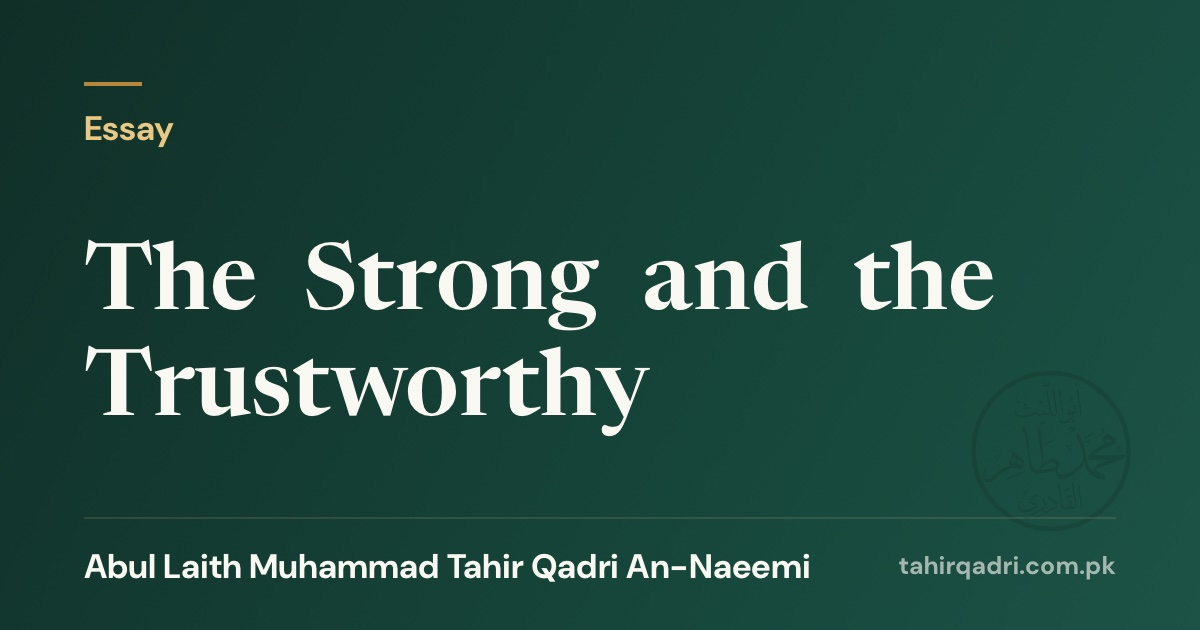
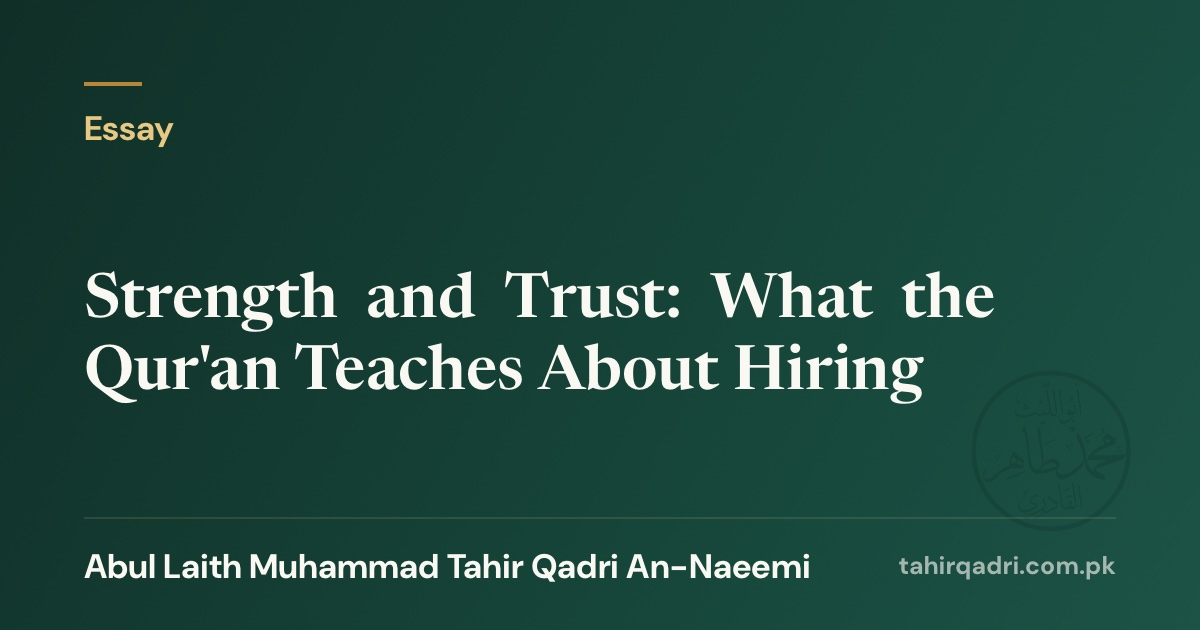
Update from the editor
content.js, index.html, posts/the-strong-and-the-trustworthy.html, files/cards/the-strong-and-the-trustworthy.jpg

Published by tahir.razavi@gmail.com

Changed region(s): [[0.0617, 0.3619, 0.8325, 0.6937]]

diff --git a/posts/the-strong-and-the-trustworthy.html b/posts/the-strong-and-the-trustworthy.html
@@ -3,7 +3,7 @@
   <head>
     <meta charset="UTF-8" />
     <meta name="viewport" content="width=device-width, initial-scale=1.0" />
-    <title>The Strong and the Trustworthy — Abul Laith Muhammad Tahir Qadri An-Naeemi</title>
+    <title>Strength and Trust: What the Qur'an Teaches About Hiring — Abul Laith Muhammad Tahir Qadri An-Naeemi</title>
     <meta name="description" content="Eight principles of employment drawn from the agreement made in Madyan between Sayyidunā Mūsā and Sayyidunā Shuʿayb (عليهما السلام) — judging character before hiring, deciding on evidence, and the employer's own duty of clear terms and gentle treatment." />
     <meta name="author" content="Abul Laith Muhammad Tahir Qadri An-Naeemi" />
     <link rel="canonical" href="https://tahirqadri.com.pk/posts/the-strong-and-the-trustworthy.html" />
@@ -12,7 +12,7 @@
     <link rel="alternate" hreflang="x-default" href="https://tahirqadri.com.pk/posts/the-strong-and-the-trustworthy.html" />
 
     <meta property="og:type" content="article" />
-    <meta property="og:title" content="The Strong and the Trustworthy" />
+    <meta property="og:title" content="Strength and Trust: What the Qur'an Teaches About Hiring" />
     <meta property="og:description" content="Eight principles of employment drawn from the agreement made in Madyan between Sayyidunā Mūsā and Sayyidunā Shuʿayb (عليهما السلام) — judging character before hiring, deciding on evidence, and the employer's own duty of clear terms and gentle treatment." />
     <meta property="og:url" content="https://tahirqadri.com.pk/posts/the-strong-and-the-trustworthy.html" />
     <meta property="og:image" content="https://tahirqadri.com.pk/files/cards/the-strong-and-the-trustworthy.jpg" />
@@ -25,7 +25,7 @@
     <link rel="preconnect" href="https://fonts.gstatic.com" crossorigin />
     <link href="https://fonts.googleapis.com/css2?family=Amiri:wght@400;700&family=DM+Sans:opsz,wght@9..40,400;9..40,500;9..40,700&family=Newsreader:ital,opsz,wght@0,6..72,400;0,6..72,600;1,6..72,400&family=Noto+Nastaliq+Urdu:wght@400;500;600&display=swap" rel="stylesheet" />
     <link rel="stylesheet" href="../styles.css" />
-    <script type="application/ld+json">{"@context":"https://schema.org","@type":"BlogPosting","headline":"The Strong and the Trustworthy","inLanguage":"en","description":"Eight principles of employment drawn from the agreement made in Madyan between Sayyidunā Mūsā and Sayyidunā Shuʿayb (عليهما السلام) — judging character before hiring, deciding on evidence, and the employer's own duty of clear terms and gentle treatment.","datePublished":"2026-09-21","keywords":"Tafsir, Qur'an, Al-Qasas, Hiring","url":"https://tahirqadri.com.pk/posts/the-strong-and-the-trustworthy.html","author":{"@type":"Person","name":"Abul Laith Muhammad Tahir Qadri An-Naeemi","alternateName":"أبو اللّیث محمد طاہر القادری النّعیمی","url":"https://tahirqadri.com.pk/"},"isPartOf":{"@type":"Collection","name":"Posts, Notes & Reflections","url":"https://tahirqadri.com.pk/"}}</script>
+    <script type="application/ld+json">{"@context":"https://schema.org","@type":"BlogPosting","headline":"Strength and Trust: What the Qur'an Teaches About Hiring","inLanguage":"en","description":"Eight principles of employment drawn from the agreement made in Madyan between Sayyidunā Mūsā and Sayyidunā Shuʿayb (عليهما السلام) — judging character before hiring, deciding on evidence, and the employer's own duty of clear terms and gentle treatment.","datePublished":"2026-09-21","keywords":"Tafsir, Qur'an, Al-Qasas, Hiring","url":"https://tahirqadri.com.pk/posts/the-strong-and-the-trustworthy.html","author":{"@type":"Person","name":"Abul Laith Muhammad Tahir Qadri An-Naeemi","alternateName":"أبو اللّیث محمد طاہر القادری النّعیمی","url":"https://tahirqadri.com.pk/"},"isPartOf":{"@type":"Collection","name":"Posts, Notes & Reflections","url":"https://tahirqadri.com.pk/"}}</script>
   </head>
 
   <body class="work-page">
@@ -43,7 +43,7 @@
       <article class="work-hero">
         <a class="back-link" href="../index.html#posts"><span aria-hidden="true">←</span> Posts, Notes &amp; Reflections</a>
         <p class="section-label align-left latin" lang="en" dir="ltr">Essay</p>
-        <h1 class="record-title latin" lang="en" dir="ltr">The Strong and the Trustworthy</h1>
+        <h1 class="record-title latin" lang="en" dir="ltr">Strength and Trust: What the Qur'an Teaches About Hiring</h1>
         <p class="work-date" dir="ltr">21 September 2026</p>
         <p class="post-alt"><a class="text-link urdu align-left" lang="ur" dir="rtl" href="qawi-aur-ameen.html">اردو میں پڑھیے</a></p>
 

diff --git a/index.html b/index.html
@@ -170,7 +170,7 @@
             <a class="recent-card" href="posts/the-strong-and-the-trustworthy.html">
               <svg class="icon recent-mark" aria-hidden="true" focusable="false"><use href="#i-pen"/></svg>
               <span class="recent-card-body reads-ltr" dir="ltr">
-                <span class="record-title latin" lang="en" dir="ltr">The Strong and the Trustworthy</span>
+                <span class="record-title latin" lang="en" dir="ltr">Strength and Trust: What the Qur'an Teaches About Hiring</span>
                 <span class="work-line"><span class="work-kind latin" lang="en" dir="ltr">Essay</span><span class="record-meta" dir="ltr">21 September 2026</span></span>
               </span>
             </a>

diff --git a/content.js b/content.js
@@ -389,7 +389,7 @@ window.siteContent = {
       works: [
         {
           id: "the-strong-and-the-trustworthy",
-          title: "The Strong and the Trustworthy",
+          title: "Strength and Trust: What the Qur'an Teaches About Hiring",
           language: "en",
           kind: "مضمون",
           date: "2026-09-21",
